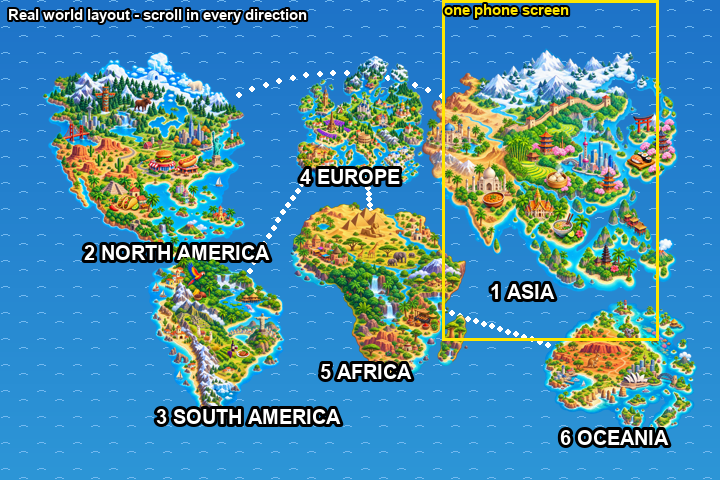
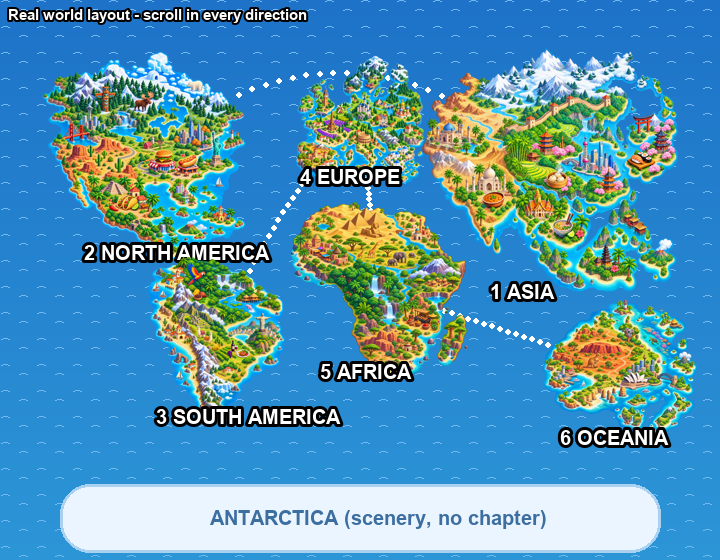
Docs: Antarctica on the World Map as scenery
Seventh continent along the bottom of the map (no chapter, pin or levels),
with its own wide-image prompt; mock-up updated.

diff --git a/Docs/WorldMap/WORLD_MAP_PLAN.md b/Docs/WorldMap/WORLD_MAP_PLAN.md
@@ -6,7 +6,8 @@ The World Map becomes a **real world map** the player scrolls in every direction
 where it really is (North and South America on the left, Europe and Africa in the middle, Asia on
 the right, Oceania bottom-right), roughly in real proportion (Asia biggest, Europe smallest), with
 sea between them. A dotted sea route joins them in chapter order (Asia → North America over the
-north → South America → Europe → Africa → Oceania). See `layout_mockup.png`; it uses the current
+north → South America → Europe → Africa → Oceania). **Antarctica** runs along the bottom as
+scenery (no chapter, pin or levels), so the map shows all seven continents. See `layout_mockup.png`; it uses the current
 continent pictures as stand-ins.
 
 A single generated picture would be blurry: the map is about 3600 × 2400 units, while ChatGPT
@@ -54,6 +55,16 @@ the same chat so they stay consistent.
 | `continent_africa.png` | Africa: the pyramids and the Nile, Sahara dunes, savanna with acacias and giraffes, Table Mountain, rainforest, Moroccan minaret |
 | `continent_oceania.png` | Australia with the red outback, Uluru and the Sydney Opera House, New Zealand's green mountains, the Great Barrier Reef, small Pacific islands with palms |
 
+**Antarctica (scenery, not a chapter)** – `continent_antarctica.png`, **1536 × 1024 landscape**,
+transparent, same style and camera:
+> Bright, glossy, hand-painted mobile game art matching the attached references (Conveyor Chef
+> world map). Antarctica as a long icy coastline seen from above with a slight tilt, sunlight from
+> the top-left, stretching across the image: snowy plains and glaciers, blue-white ice cliffs,
+> floating icebergs, groups of cute penguins, a seal on an ice floe, and a small colourful research
+> station. A ring of pale turquoise shallow water along the north coast that fades smoothly to fully
+> transparent. Transparent background. No text, no labels, no pins, no open ocean, no dark outline.
+> Same style, camera and lighting as the other continents in this set.
+
 **Shape:** each continent's real outline, north at the top, so the six fit together as a real
 world map (Africa looks like Africa). Their size on the map is set in Unity, so all six can fill
 their square the same way.
@@ -90,6 +101,7 @@ worldmap/continent_south_america.png
 worldmap/continent_europe.png
 worldmap/continent_africa.png
 worldmap/continent_oceania.png
+worldmap/continent_antarctica.png
 worldmap/ocean_tile.png
 worldmap/props/prop_sailboat.png   (optional, and the other props)
 ```
@@ -99,7 +111,7 @@ ocean tile tested by placing two copies side by side (no visible seam), no text 
 
 ## What I do when the images arrive
 
-1. Rebuild the scrolling map in WorldMap.unity: about 3600 × 2400 units, the ocean tile repeated
+1. Rebuild the scrolling map in WorldMap.unity: about 3600 × 2800 units (Antarctica along the bottom), the ocean tile repeated
    underneath, the six continents at their real places and proportions, the dotted sea route in
    chapter order with the props along it and clouds at the edges.
 2. Move each continent's pin, lock, glow and tap area with it; the chapter bar, arrows and
